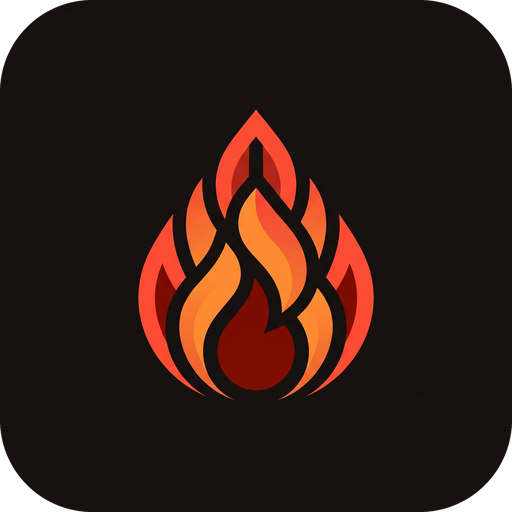
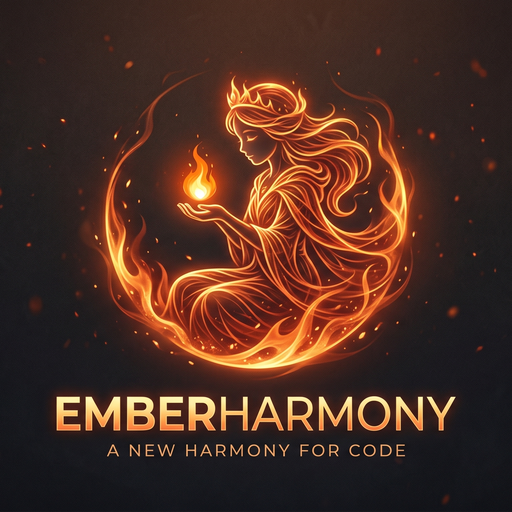
Restore corrected EmberHarmony asset variants (#60)
* Restore main identity asset variants

* Remove stale Cloudflare resource shim

* Use valid transparent fills in restored SVGs

diff --git a/packages/console/resource/resource.node.ts b/packages/console/resource/resource.node.ts
@@ -1,70 +1,7 @@
-import type { KVNamespaceListOptions, KVNamespaceListResult, KVNamespacePutOptions } from "@cloudflare/workers-types"
 import { Resource as ResourceBase } from "sst"
-import Cloudflare from "cloudflare"
 
-export const waitUntil = async (promise: Promise<any>) => {
+export const waitUntil = async (promise: Promise<unknown>) => {
   await promise
 }
 
-export const Resource = new Proxy(
-  {},
-  {
-    get(_target, prop: keyof typeof ResourceBase) {
-      const value = ResourceBase[prop]
-      if ("type" in value) {
-        // @ts-ignore
-        if (value.type === "sst.cloudflare.Bucket") {
-          return {
-            put: async () => {},
-          }
-        }
-        // @ts-ignore
-        if (value.type === "sst.cloudflare.Kv") {
-          const client = new Cloudflare({
-            apiToken: ResourceBase.CLOUDFLARE_API_TOKEN.value,
-          })
-          // @ts-ignore
-          const namespaceId = value.namespaceId
-          const accountId = ResourceBase.CLOUDFLARE_DEFAULT_ACCOUNT_ID.value
-          return {
-            get: (k: string | string[]) => {
-              const isMulti = Array.isArray(k)
-              return client.kv.namespaces
-                .bulkGet(namespaceId, {
-                  keys: Array.isArray(k) ? k : [k],
-                  account_id: accountId,
-                })
-                .then((result) => (isMulti ? new Map(Object.entries(result?.values ?? {})) : result?.values?.[k]))
-            },
-            put: (k: string, v: string, opts?: KVNamespacePutOptions) =>
-              client.kv.namespaces.values.update(namespaceId, k, {
-                account_id: accountId,
-                value: v,
-                expiration: opts?.expiration,
-                expiration_ttl: opts?.expirationTtl,
-                metadata: opts?.metadata,
-              }),
-            delete: (k: string) =>
-              client.kv.namespaces.values.delete(namespaceId, k, {
-                account_id: accountId,
-              }),
-            list: (opts?: KVNamespaceListOptions): Promise<KVNamespaceListResult<unknown, string>> =>
-              client.kv.namespaces.keys
-                .list(namespaceId, {
-                  account_id: accountId,
-                  prefix: opts?.prefix ?? undefined,
-                })
-                .then((result) => {
-                  return {
-                    keys: result.result,
-                    list_complete: true,
-                    cacheStatus: null,
-                  }
-                }),
-          }
-        }
-      }
-      return value
-    },
-  },
-) as Record<string, any>
+export const Resource = ResourceBase as Record<string, any>